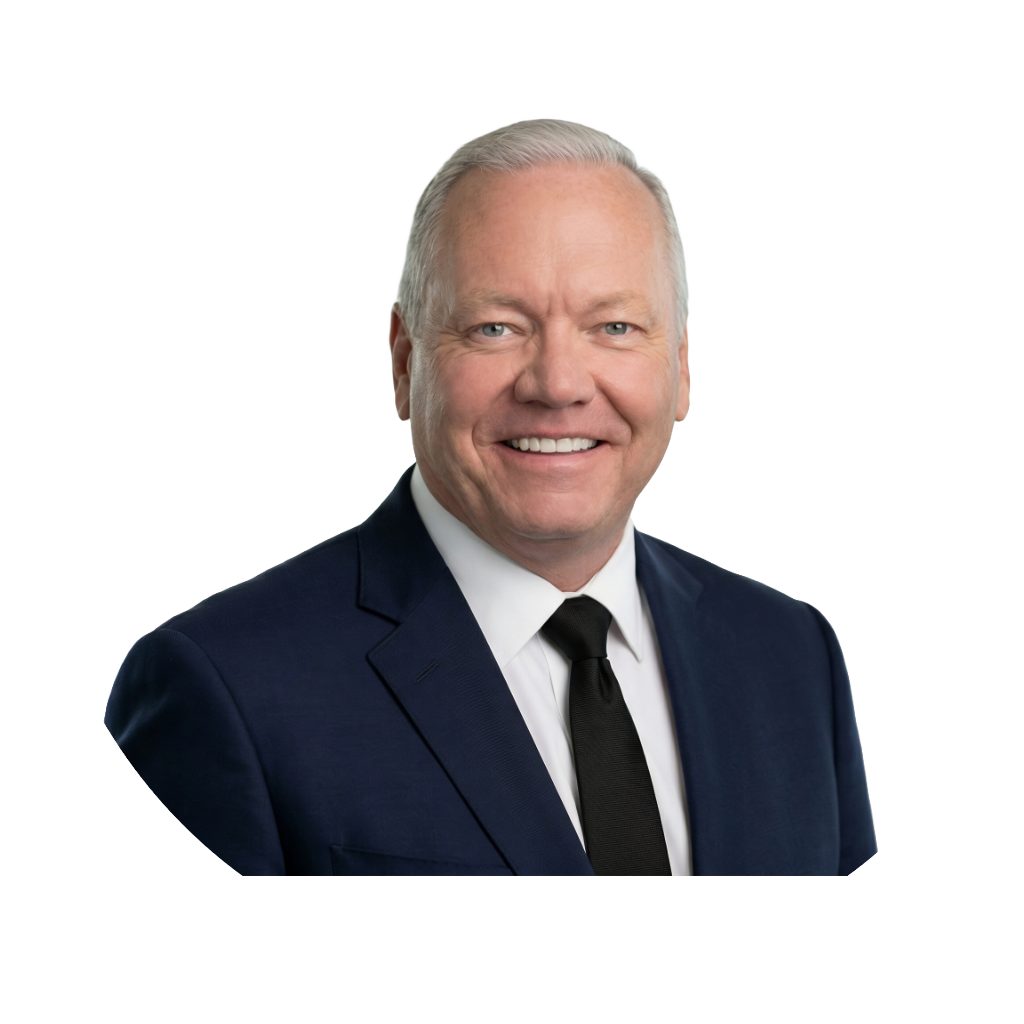
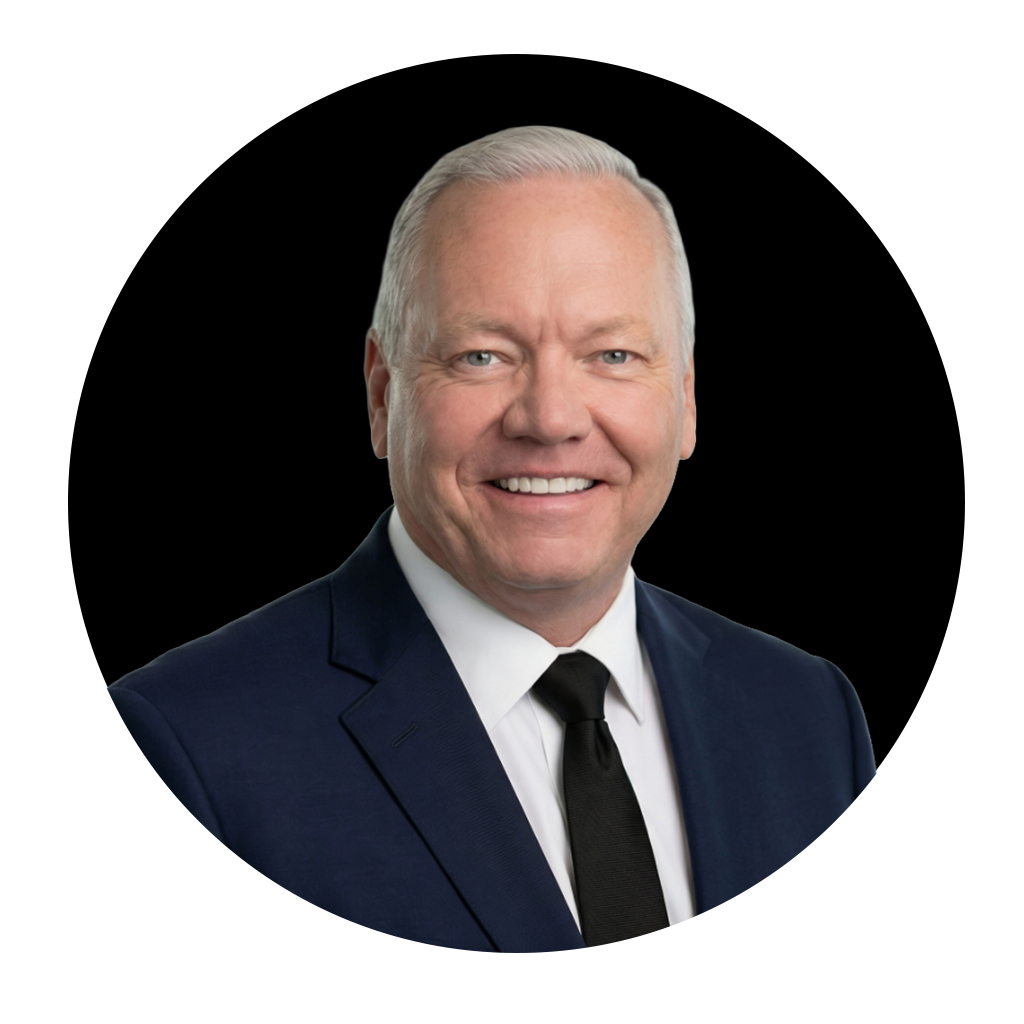
Update founder images and CSS styles for visual consistency
- Replaced brad-geisen.png and brad-geisen-headshot.png with updated versions to enhance visual quality.
- Modified CSS styles to remove borders from founder photo containers, streamlining the design for a cleaner appearance.

diff --git a/frontend/src/components/landing/dealgapiq-homepage.css b/frontend/src/components/landing/dealgapiq-homepage.css
@@ -179,7 +179,7 @@
   width: 64px; height: 64px;
   border-radius: 50%;
   background: #000;
-  border: 2px solid #0EA5E9;
+  border: none;
   object-fit: cover; object-position: 50% 20%;
   flex-shrink: 0;
 }
@@ -1437,7 +1437,7 @@
   width: 160px; height: 160px;
   border-radius: 50%;
   background: #000;
-  border: 2px solid #0EA5E9;
+  border: none;
   overflow: hidden;
   display: flex; align-items: center; justify-content: center;
   color: var(--text-label);